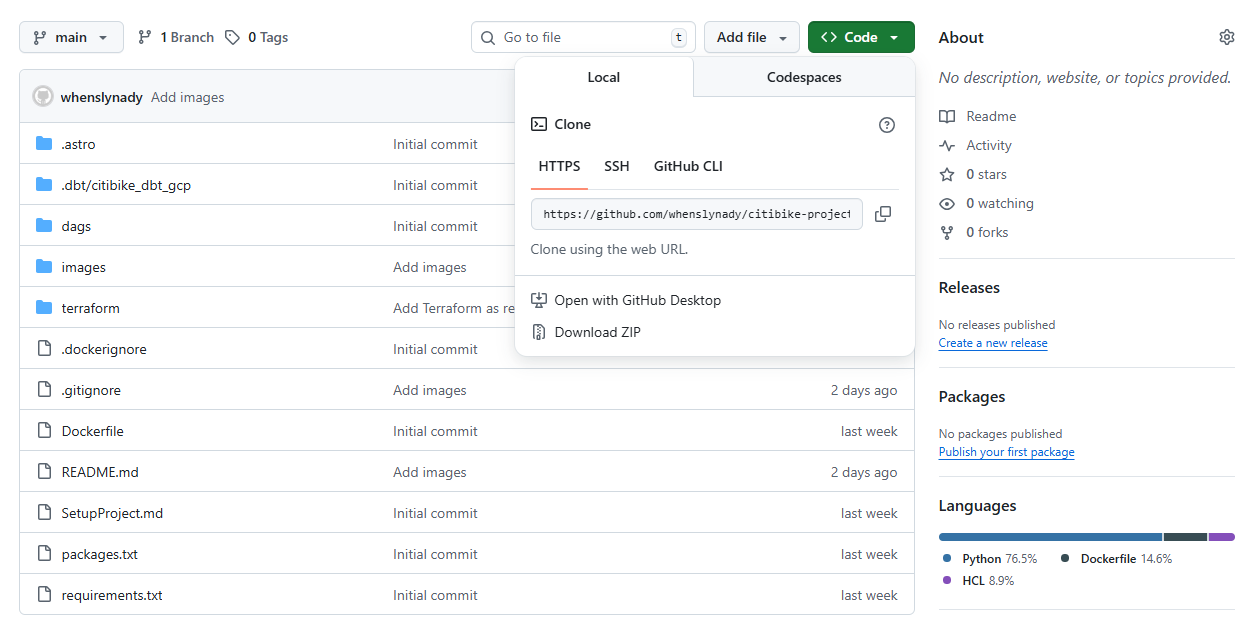
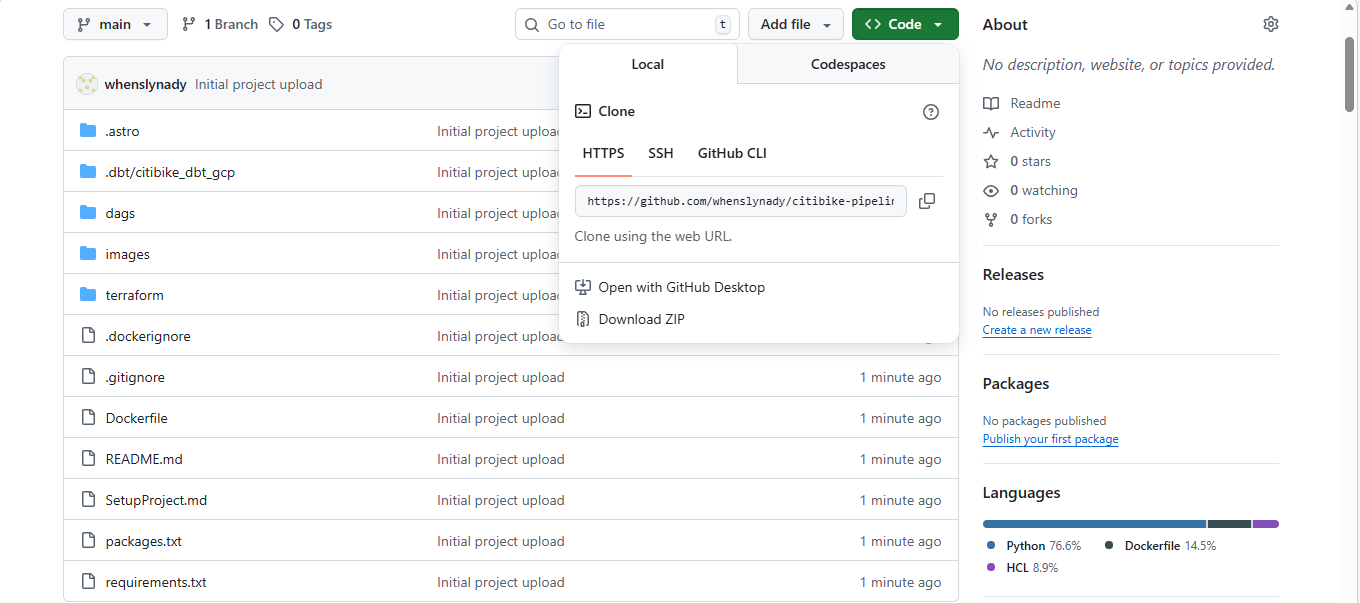
Initial project upload

diff --git a/README.md b/README.md
@@ -128,5 +128,5 @@ Data visualizations for this project can be accessed [here](https://lookerstudio
 ## 8. 🔄 Reproduce Project
 
 To reproduce the project and test the code yourself, follow these steps.  
-For a **complete step-by-step guide**, you can access it [here](SetupProject.md).
+For a complete step-by-step guide, you can access it [here](SetupProject.md).
 ---
